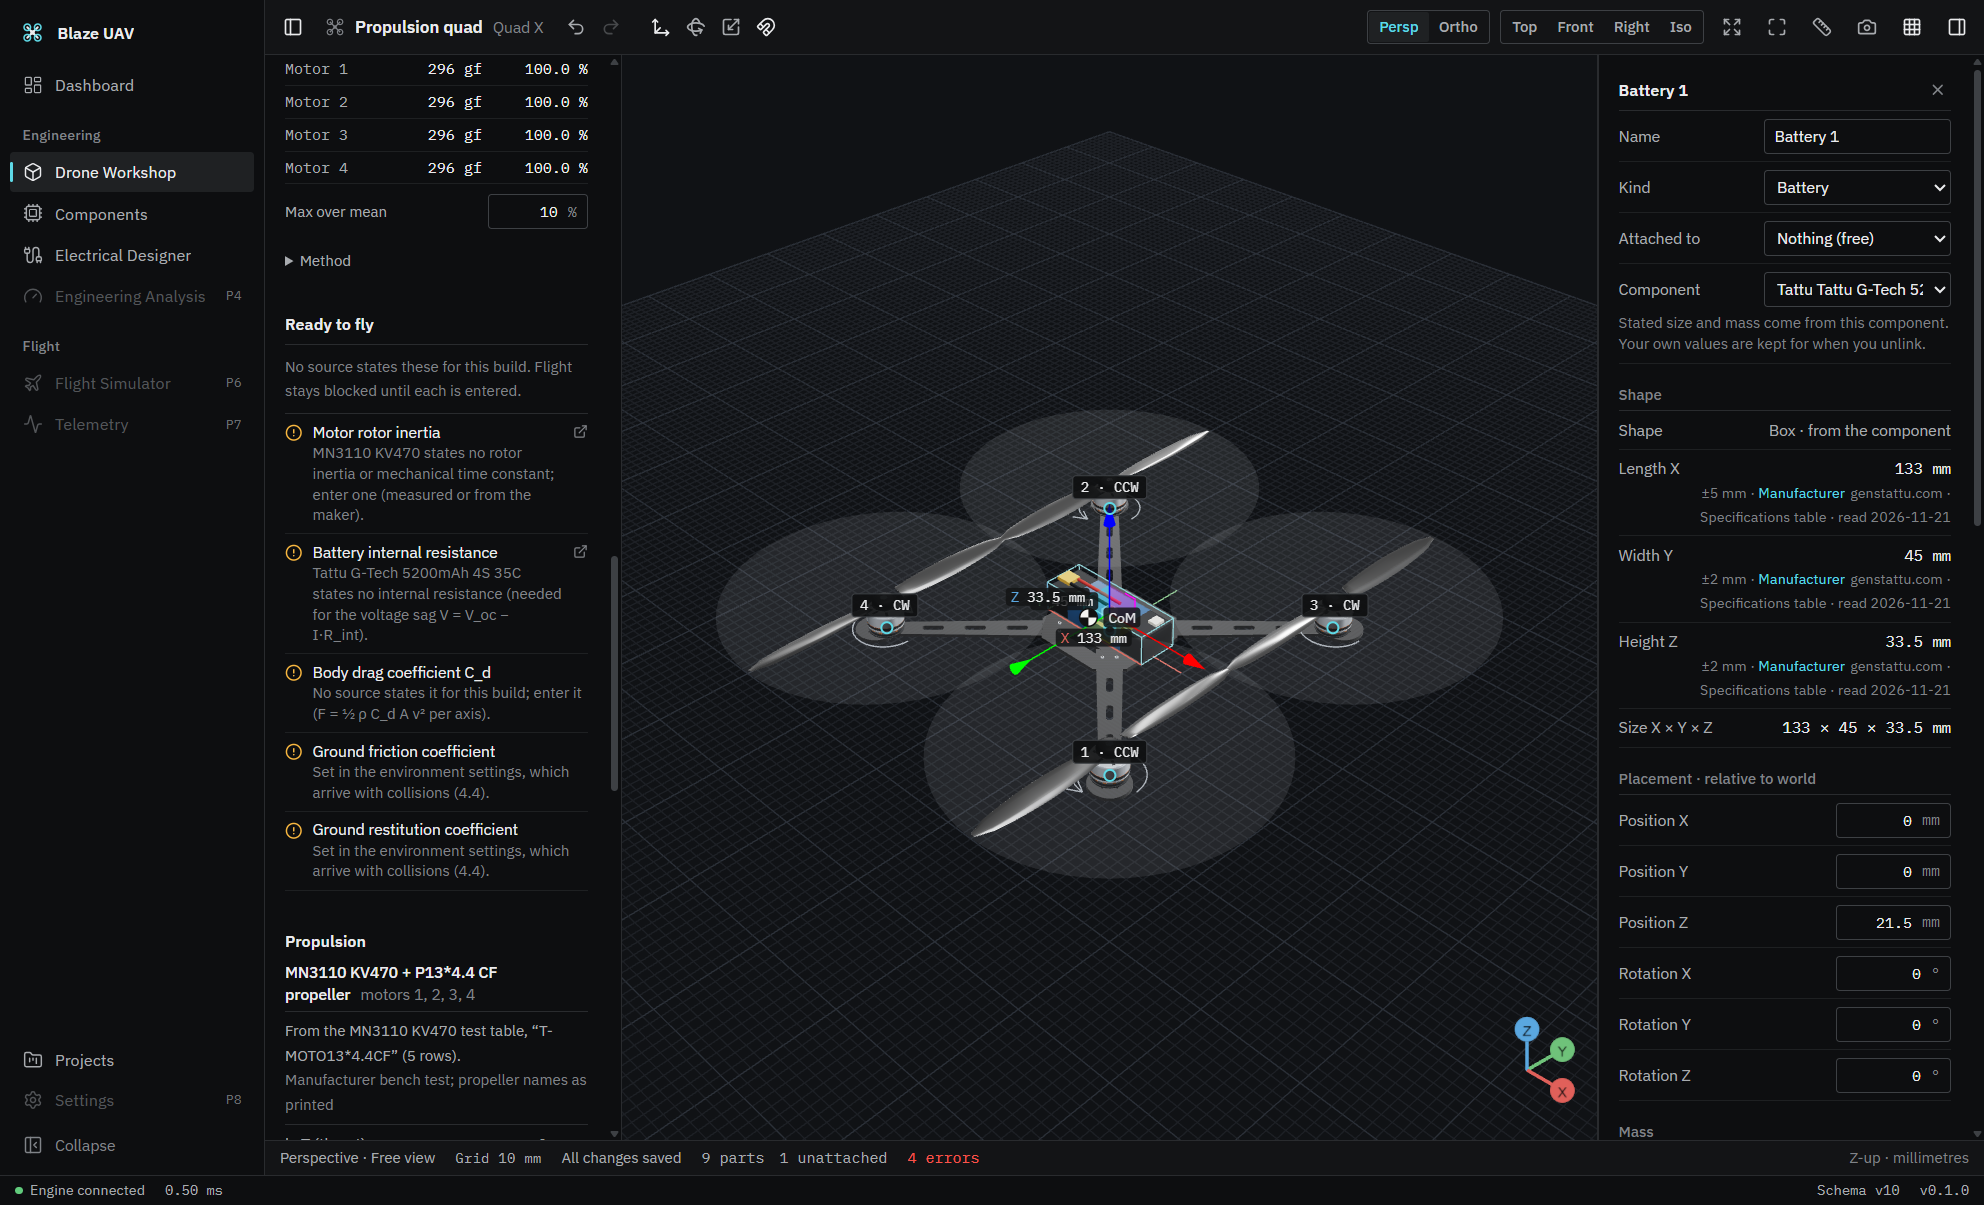
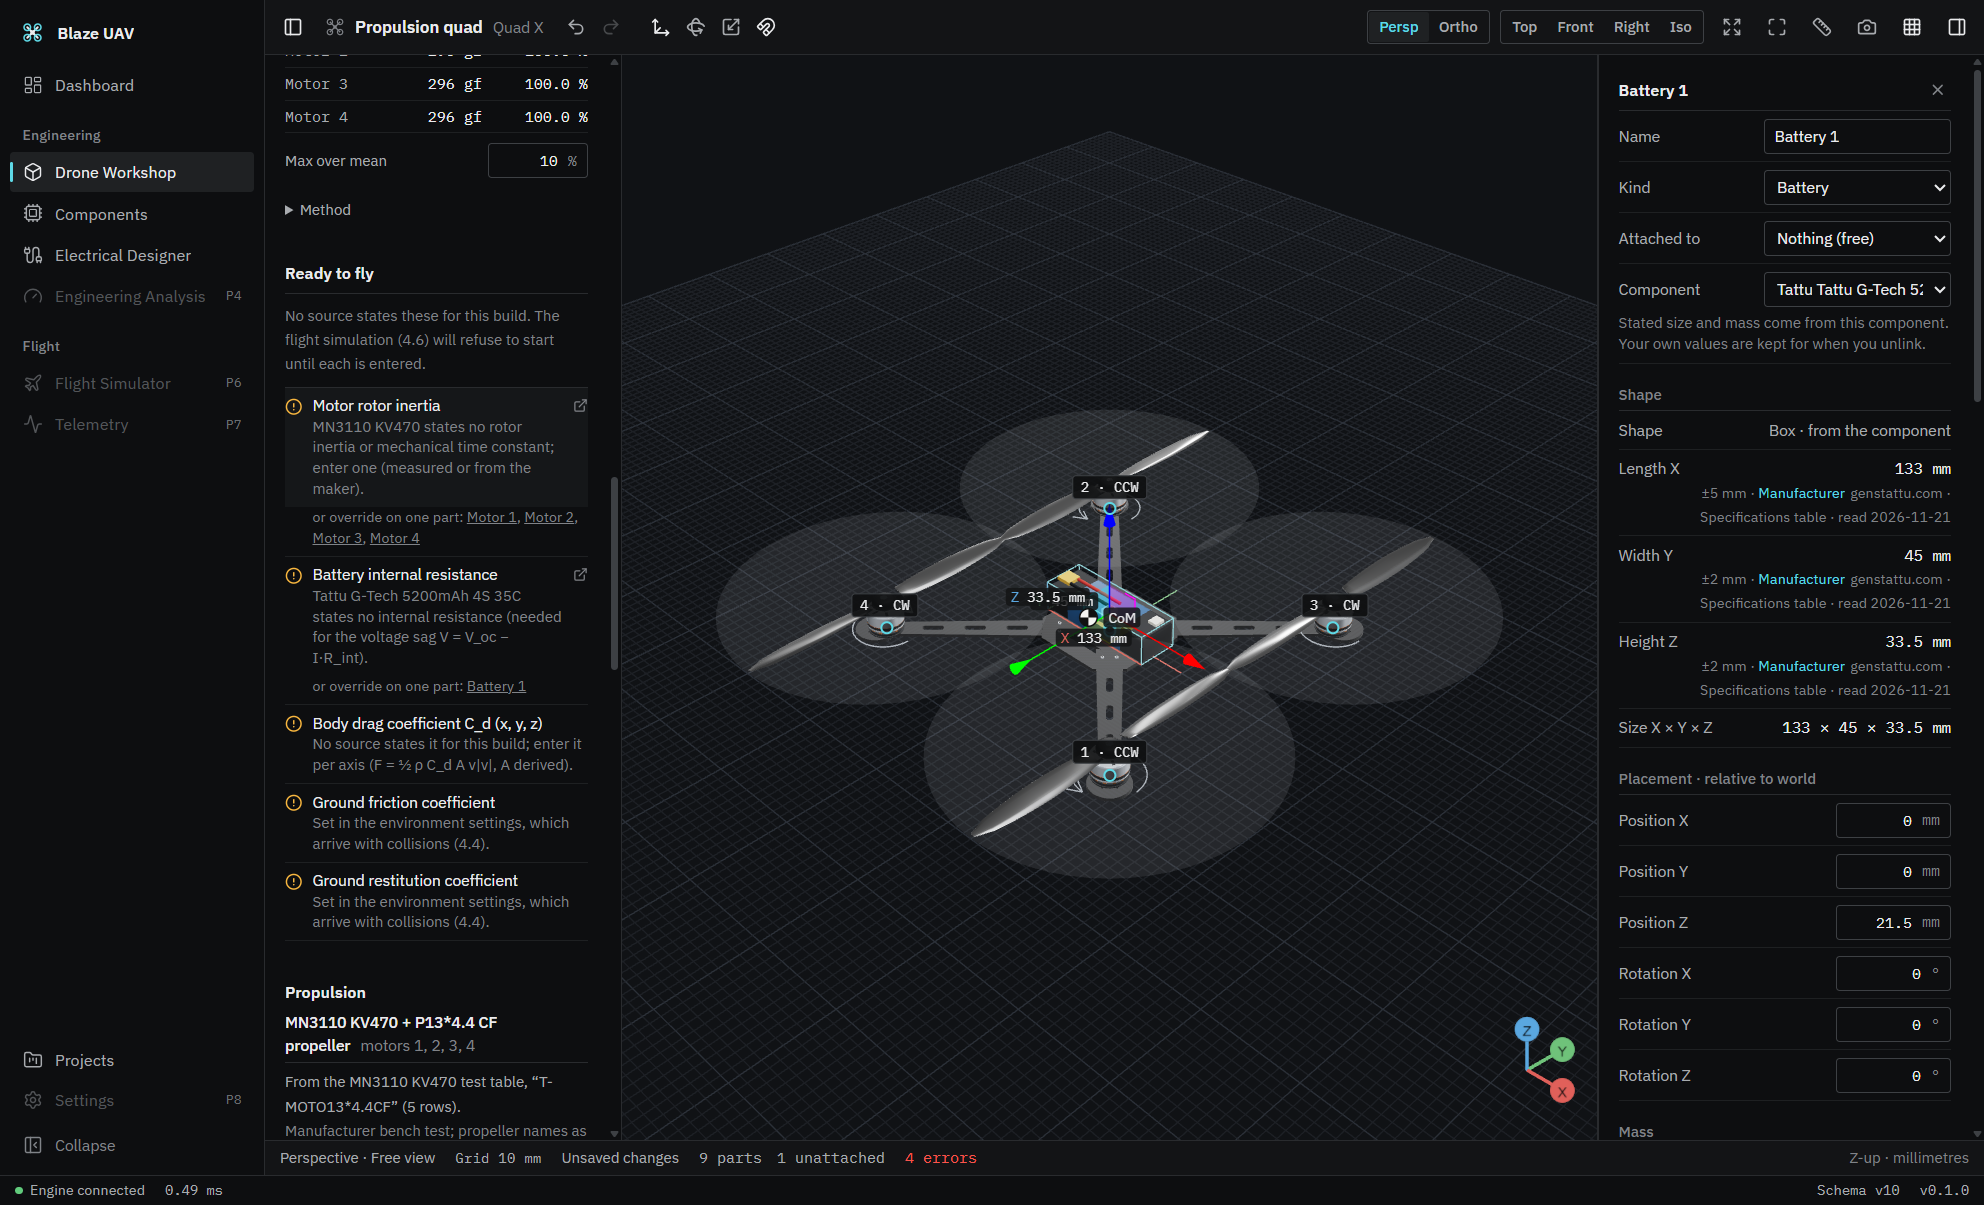
4.5 follow-up: DEVLOG with before/after tables and remaining uncertainty, plan updates, screenshots

diff --git a/documentation/DEVLOG.md b/documentation/DEVLOG.md
@@ -1,5 +1,190 @@
 # Development log
 
+## 2026-11-22 — Phase 4.5 follow-up: throttle map, held-out validation, gap-fills and overrides, per-axis drag
+
+Fixes from the 4.5 review, with your corrections. Three commits: c9e8923, 71c38fc,
+6ffa3b6.
+
+The model is now **coherent and bounded**, not "validated":
+- every assumption is labelled;
+- every fit has a stated domain;
+- the errors below are measured on rows the throttle map did not see.
+
+What is still unknown is listed at the end.
+
+**Built**
+- **Throttle map (an empirical effective control ratio)**:
+  - Each T-Motor row implies the duty the motor actually saw:
+    d_eff = [E + √(E² + 4·V·R·I)]/(2V), from d·V = E + R·I/d and E = ω/K_v.
+  - The map takes, at each throttle step, the median of d_eff/throttle over the
+    table's rows.
+  - Rules:
+    - the effective duty is made non-decreasing (pool-adjacent-violators,
+      flagged when it changes anything) and bounded to (0, 1];
+    - it is interpolated linearly between steps;
+    - outside the steps the ratio is held, flagged "extrapolated".
+  - It is labelled as the manufacturer bench's ratio (their ESC, supply and
+    wiring together), not an ESC efficiency. The voltage deficit is not claimed
+    as ESC loss.
+  - The ideal lossless converter (I_supply = d_eff·I_motor) stays an explicit
+    assumption.
+- **k_Q** uses each row's own d_eff: Q = K_t (I/d_eff − I₀).
+- **Validation is leave-one-prop-out**: each propeller's rows are predicted
+  with a map built from the other propellers' rows of the same table.
+  - k_T and k_Q are fitted on those same rows, so they are reported as in-sample
+    fit errors, separately from the validation.
+  - The ideal-ESC prediction is kept as "before".
+- **Per row**:
+  - the table's power column against V × I: equal to its printed rounding
+    (< 0.1 %) on every T-Motor row;
+  - model power;
+  - the energy balance V_m·I_m = Qω + K_t·I₀·ω + R·I_m² (tested);
+  - I₀'s share of the current, and whether I₀ is used away from its stated
+    10 V.
+- **Fit domains**:
+  - each fit states the speed range of its rows;
+  - APC fits keep only rows up to the motor's no-load speed at the pack
+    voltage (plus the first row above it);
+  - outside the domain a result is an estimate.
+- **APC provenance corrected**: APC's FAQ
+  (https://www.apcprop.com/faq/, read 2026-11-22) states the data uses the
+  sea-level Standard Atmosphere, 1.225 kg/m³. It is now cited in the seed
+  condition (seed v4).
+- **T-Motor propeller masses unchanged**: the conditions now record that
+  "Weight (Single Blade)" is ambiguous and is taken as the whole propeller.
+  Unverified.
+- **Same propeller in other motor tables**: shown for comparison, not pooled.
+  P13*4.4: k_T is 5.2 % higher in the KV700 table.
+- **Per-axis body drag**:
+  - C_d per x, y and z; the first value entered fills the empty axes.
+  - Projected areas A_x, A_y, A_z are derived: the union of the non-propeller
+    collision shapes projected on each body plane, on a 0.5 mm grid, with the
+    error estimated as |A(h) − A(2h)|. Propeller discs are excluded.
+  - Engine `aero.rs`: v_b = Rᵀv, F_b,i = −½ρ C_d,i A_i v_b,i|v_b,i|, F = R·F_b.
+- **One resolver for every value** (`src/domain/spec-resolution.ts`), in this
+  order:
+  1. part override;
+  2. library gap-fill;
+  3. the record's own value;
+  4. missing.
+  - Every layer is kept with its provenance.
+  - It is memoized on the component and override objects, both of which are
+    replaced on change.
+  - `linkedComponent` goes through it, so mass, inertia, shapes, checks,
+    wiring/electrical, propulsion and the 3D model all read the same value.
+- **Library gap-fills**:
+  - an empty single-value field of a built-in record can be filled in place
+    (source measured or user, never manufacturer);
+  - stored in `component_fills`, apart from the seed;
+  - seed updates never touch them, and a later stated value is shown as
+    "Manufacturer now states X" (the fill still wins);
+  - duplicate and export carry fills.
+- **Per-part overrides**:
+  - in the inspector's Specifications list, each value shows its layer;
+  - Override and Clear are undoable assembly edits (`overrides_json`),
+    validated per field in main.
+- **Checklist**:
+  - a missing component value offers both the library fill and "override on one
+    part" (it lists the parts);
+  - the wording now says 4.6 will refuse to start, not that flight is blocked.
+- **Engine**: optional per-motor `throttleMap` and an optional `aero` on
+  `vehicle.load`, both additive and validated. `loadVehicle(vehicle,
+  { propulsion?, aero? })`.
+
+**Before / after** (built-in data; "after" = leave-one-prop-out map)
+
+| Pair | Full throttle speed, before → after | Full throttle thrust, before → after | Max error over all rows, after (speed / thrust / current) | k_Q max / rms, before → after |
+|---|---|---|---|---|
+| KV470 + P13*4.4 (5 rows, 14.8 V) | +16.6 % → −2.9 % | +35.3 % → −6.3 % | 3.4 / 10.0 / 18.4 % | 19.1 / 11.5 → 10.7 / 6.9 % |
+| KV470 + P15*5 (5 rows, 14.8 V) | +23.7 % → +4.7 % | +57.3 % → +12.7 % | 11.3 / 15.0 / 21.8 % | 14.6 / 9.7 → 11.1 / 5.6 % |
+| KV700 + P13*4.4 (5 rows, 11.1 V) | +14.0 % → −0.2 % | +28.9 % → −1.3 % | 3.6 / 11.1 / 3.3 % | 17.8 / 9.7 → 12.8 / 6.2 % |
+
+In-sample k_T fits are unchanged: 2.2945e-5, 4.8676e-5 and 2.4138e-5 N·s²
+(max 3.6 %, 7.2 %, 13.9 %).
+
+Bench maps over all rows (effective duty at 50/65/75/85/100 %):
+- KV470: 49.3 / 61.4 / 70.6 / 78.7 / 83.9 %.
+- The simulation uses this full map; validation uses the held-out one.
+
+APC fit domains on a 14.8 V pack:
+
+| Motor | Rows used | Speed range | k_T 10x4.5MR | k_T fit max, before → after |
+|---|---|---|---|---|
+| KV470 | 7 of 22 | ≤ 7,000 rpm | 1.3873e-5 | 9.3 % → 1.4 % |
+| KV700 | 11 of 22 | ≤ 11,000 rpm | 1.4032e-5 | 9.3 % → 2.6 % |
+| KV780 | 12 of 22 | ≤ 12,000 rpm | 1.4082e-5 | 9.3 % → 3.0 % |
+
+- APC k_Q still scatters 14–26 %: Cp rises at low speed (the 1,000 rpm rows).
+- 11x4.5MR and 12x4.5MR behave the same (1.3–3.7 %).
+
+**Tests**
+- **Unit, propulsion** (`propulsion.test.ts`):
+  - throttle map: d_eff hand case; PAV; interpolation and extrapolation flags;
+    bounds; monotone seed maps; a falling table made monotone;
+  - the held-out map excludes the validated prop;
+  - per row: model equations, ideal-converter current/power, energy balance,
+    the table's power vs V·I, I₀ share and domain flag;
+  - the before/after numbers above pinned as regressions;
+  - k_Q scatter lower on every pair;
+  - APC domain capping and `outsideDomain`;
+  - cross-table k_T.
+- **Unit, drag** (`aero.test.ts`): box, union, cylinder, a yawed box,
+  propeller exclusion, resolution error, drag hand cases.
+- **Unit, layers** (`spec-resolution.test.ts`):
+  - precedence, every layer kept, a fill over a later stated value;
+  - cache invalidation for component, fills and overrides;
+  - shared keys have the same dimension;
+  - propagation into mass, inertia, shape, checks, wiring and propulsion, and
+    back when cleared.
+- **Unit, storage** (`component-fills.test.ts`):
+  - the fill rules: refused for a manufacturer source, a stated field, a table
+    field, a user record, a wrong unit;
+  - duplicate and export carry fills;
+  - a seed update under a fill;
+  - overrides persist on save and reload, and round-trip without the field when
+    absent;
+  - the override schema.
+- **Unit, assembly**: per-axis C_d persistence.
+- **TypeScript/Rust consistency**: `tests/fixtures/propulsion-cases.json` (42
+  cases) and `aero-cases.json` (20) are produced by the TS model. Both
+  `propulsion.test.ts`/`aero.test.ts` and engine-core reproduce them to 1e-12.
+- **Rust**: 50 engine-core tests (map interpolation and validation, steady
+  sag through a map, drag hand cases and energy) and 8 sidecar tests (`aero` on
+  `vehicle.load`).
+- **e2e** `propulsion.spec.ts`:
+  - held-out table, map, other tables;
+  - per-axis C_d fill and clear;
+  - a battery R_int override with undo and redo;
+  - the rotor inertia filled in the library from the checklist;
+  - the checklist down to the two 4.4 items.
+- **Migration order with 4.4**: applying 0001–0009, 4.4's 0010 and this 0011 in
+  sequence gives every column of both, with no clash. See the hand-over for the
+  merge steps.
+
+**Screenshots** (reviewed): `documentation/screenshots/4.5-fit.png`,
+`4.5-checklist.png`, `4.5-library-field.png`, `4.5-override.png`,
+`4.5-checklist-after.png`.
+- Fixed after review: a missing space in the I₀ line.
+
+**Remaining uncertainty**
+- **The map is the manufacturer's bench, not your ESC.**
+  - With another ESC or supply the effective duty differs.
+  - Nothing here measures it; a bench test of your own setup would replace it.
+- **Held-out errors are still up to 15 % (thrust) and 22 % (current)** at
+  some rows (P15*5, 50 % throttle). The model stays an ideal BLDC with constant
+  I₀ and no temperature effects.
+- **k_T and k_Q are in-sample.** Only one table per prop exists for most
+  props, except P13*4.4, where the two tables differ by 5 %.
+- **I₀ is a single point at 10 V**, used unvalidated elsewhere (flagged per
+  row).
+- **APC data is computed, not measured**, at sea-level ISA. k_Q from it
+  scatters 14–26 %.
+- **Propeller mass reading** ("Single Blade") is unverified; it affects
+  J_prop ×2 if wrong.
+- **Projected areas use collision shapes**, not real surfaces.
+- **C_d, the rotor inertia, the Tattu R_int and the ground coefficients** stay
+  user inputs.
+
 ## 2026-11-22 — Phase 4, milestone 4.5: motor, propeller and battery models
 
 **Built**

diff --git a/documentation/plans/phase-4-physics.md b/documentation/plans/phase-4-physics.md
@@ -132,6 +132,18 @@ sent totals beyond 1e-9 relative is an error, not a silent correction.
   - K_t (I − I₀) = k_Q ω².
   - The solved RPM and thrust are compared with the cited table and the error is
     reported. That comparison is the model's validation.
+  - Done in 4.5 (follow-up), as implemented:
+    - "throttle" is mapped to an effective duty through the motor table's bench
+      throttle map. This is an empirical effective control ratio, derived per
+      row from d·V = ω/K_v + R·I/d and taken as the median per step; it is
+      monotone and bounded, and extrapolation is flagged. It is not an ESC
+      efficiency.
+    - The ideal lossless converter is kept as an assumption.
+    - k_Q uses each row's effective duty.
+    - Validation is leave-one-prop-out; k_T and k_Q are in-sample fits.
+    - Every fit states its speed domain.
+    - The status is "coherent and bounded", with the remaining uncertainty
+      listed in the DEVLOG; it is not "validated".
 - **Response**: J dω/dt = K_t (I − I₀) − k_Q ω².
   - Prop inertia is derived from mass and radius (blade-as-rod assumption,
     labelled).
@@ -150,7 +162,9 @@ sent totals beyond 1e-9 relative is an error, not a silent correction.
 
 **Aerodynamics**
 
-- Body drag per axis: F = ½ ρ C_d A v².
+- Body drag per axis: F = ½ ρ C_d A v² (as built: C_d,i and A_i per body axis,
+  F_b,i = −½ρ C_d,i A_i v_b,i|v_b,i| with v_b = Rᵀv; A_i is the union of the
+  non-propeller collision shapes projected on each body plane, `src/domain/aero.ts`).
   - A is the projected area of the collision shapes, which is derived.
   - C_d is entered by the user.
   - ρ comes from the ISA standard atmosphere (ISO 2533, cited) at the altitude and
@@ -200,6 +214,10 @@ Frame mass (or a cited density), battery internal resistance (Tattu), body C_d,
 motor rotor inertia (or time constant), ground friction and restitution, and k_T
 for any motor and prop pair without data. A "Ready to fly" checklist lists exactly
 what is missing for the current build, with a link to each field.
+- Body C_d is per axis (x, y, z).
+- A value a built-in component leaves empty can be entered once in the library
+  (catalog gap-fill, every project) or on one part (override). Resolution order:
+  part override > gap-fill > stated value > missing.
 
 ## Data sources found / not found
 
@@ -214,8 +232,10 @@ Searched on 2026-11-21. The found values are in the seed (APC) and in
   - stored: the static (V = 0) row of every RPM block, with all 15 columns in the
     file's units;
   - caveat: APC states this data is **computed** by vortex-theory analysis of the
-    blade geometry, not measured, and the file does not state the air density.
-    A k_T fitted to it (4.5) must say it comes from computed data.
+    blade geometry, not measured. The file does not state the air density;
+    APC's FAQ (https://www.apcprop.com/faq/, read 2026-11-22) states the
+    sea-level Standard Atmosphere, 1.225 kg/m³, which is cited in the seed
+    condition. A k_T fitted to it (4.5) says it comes from computed data.
 - **Carbon-fibre plate density**: 1.6 g/cm³ from two datasheets:
   - Elevated Materials EM-CF Sheet: 0/90 layup, toughened epoxy, fibre fraction
     not stated;
@@ -256,7 +276,7 @@ Each milestone ends with `npm run test:all` green, a DEVLOG entry and screenshot
 | 4.2 Editor additions ✅ | New part kinds: GPS, camera, sensor, landing gear (parametric legs/skids); drag a component from the library into the viewport or onto a mount; scale tool for envelope parts only (linked components keep their stated size); per-part inertia and CoM-offset override; collision-shape choice |
 | 4.3 Engine foundation ✅ | rapier3d-f64 with enhanced determinism; protocol v2; `vehicle.load` from the assembly; cross-check against `mass.ts`; spikes: gyroscopic term and determinism hash; ADR 0005 (rapier) and ADR 0006 (mass properties in TS, simulation in Rust) |
 | 4.4 Collisions | Interference check in the workshop (live while dragging, debounced); tolerance and allowed pairs; collision-boundary debug view; ground and obstacle contact in the engine |
-| 4.5 Motor, prop and battery models ✅ | k_T and k_Q fits and the steady-state solver; validation against the cited thrust tables (error shown); APC performance data sourced into the seed (done, with the cited reference data); Ready-to-fly checklist |
+| 4.5 Motor, prop and battery models ✅ | k_T and k_Q fits and the steady-state solver; validation against the cited thrust tables (error shown); APC performance data sourced into the seed (done, with the cited reference data); Ready-to-fly checklist. Follow-up: bench throttle map, leave-one-prop-out validation, fit domains, catalog gap-fills and part overrides, per-axis body drag. Status: coherent and bounded, not validated (see the DEVLOG) |
 | 4.6 Flight dynamics | Per-motor forces at their true pose, reaction torque, gravity, drag, battery sag and consumption; analytical tests |
 | 4.7 Controller | Angle/rate cascade, allocation, altitude hold, PX4 default gains (cited) |
 | 4.8 Flight test view and physics debug | Engine → renderer state stream; flight view with ground and obstacles; keyboard sticks; a debug panel showing every value the spec lists (mass, CoM, inertia, thrust per motor and total, torque per axis, angular and linear velocity, collisions, battery use); indicators for unbalanced mass, motor layout, collisions, T/W below the limit and instability |
